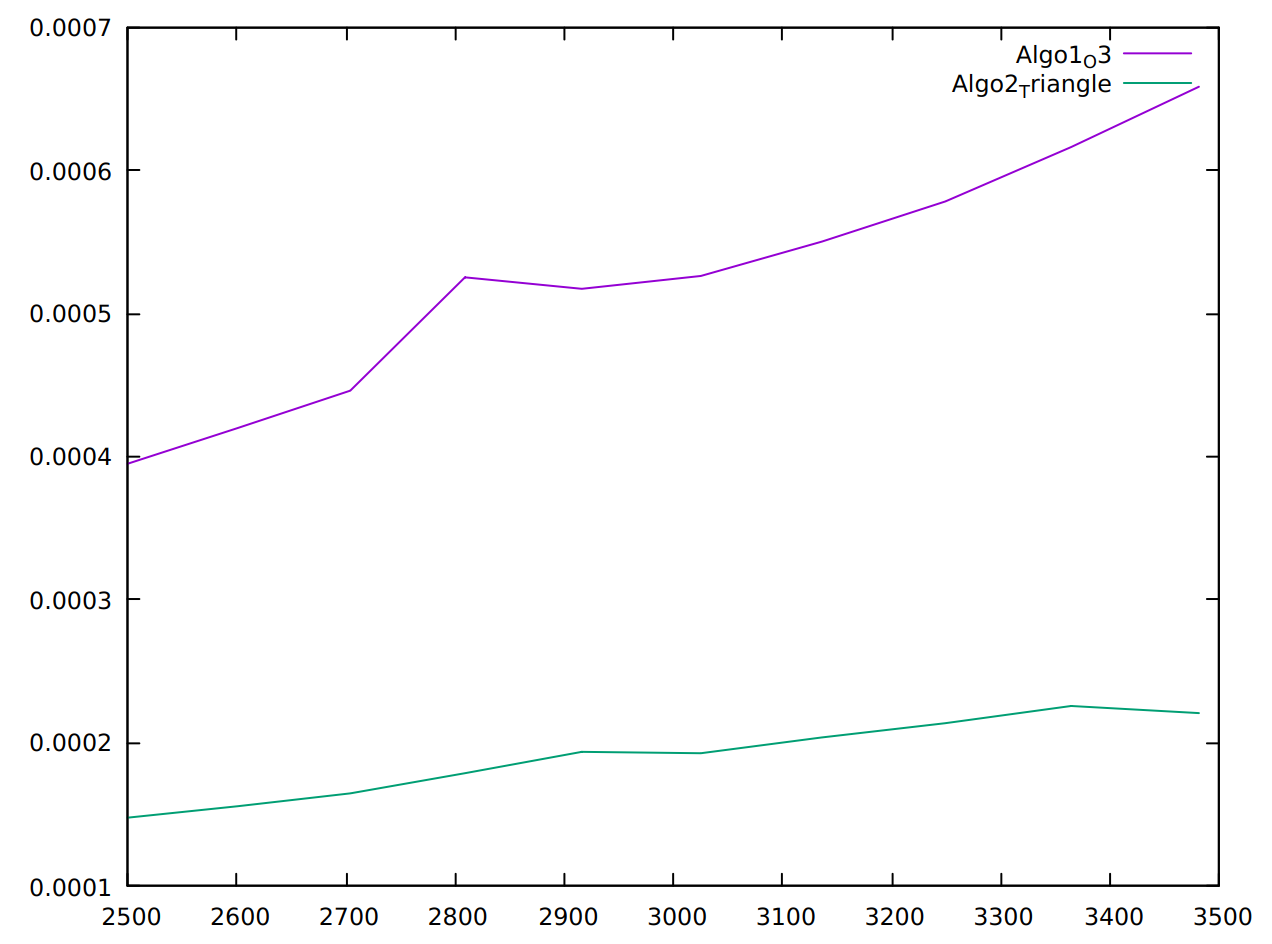
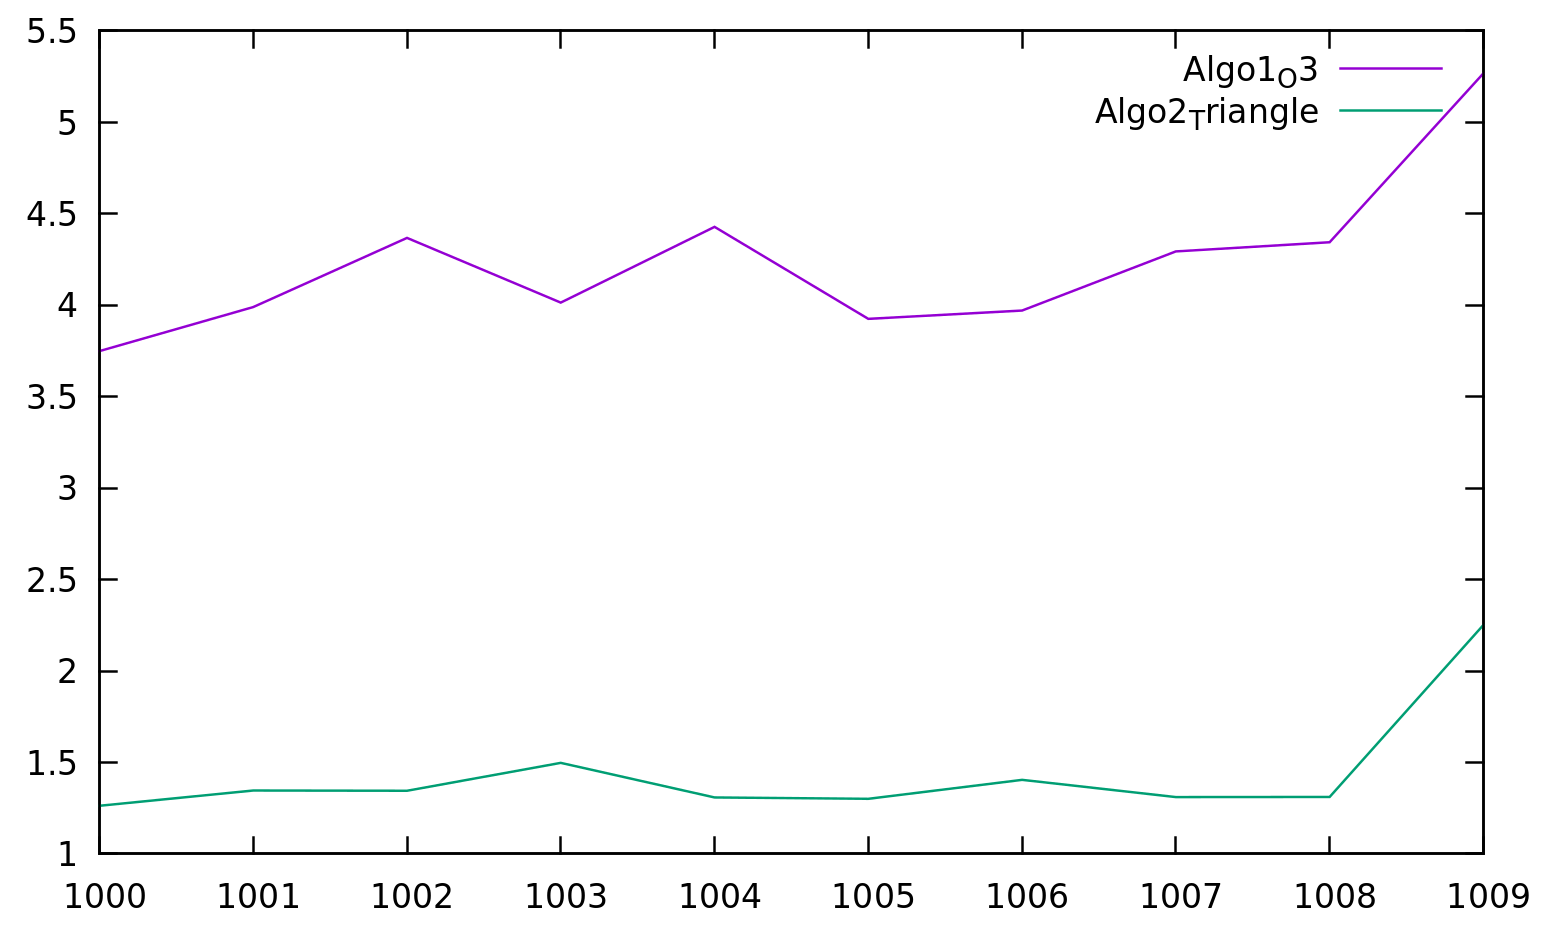
Modif

diff --git a/Exercice_2/algo.c b/Exercice_2/algo.c
@@ -46,7 +46,10 @@ int verfie_matrice_1(int **matrice, int n) {
 }
 
 // permet de vericier si toutes les valeurs d'une matrice sont differentes en O(n²)
-int verfie_matrice_2(int **matrice, int n, int *check, int maxValeur) {
+int verfie_matrice_2(int **matrice, int n, int maxValeur) {
+
+    // On alloue le tableau le tableau de borne
+    int *check = alloue_tableau(maxValeur);
 
     //on utilise un tableau de maxValeur de valeurs comme tableau de booleen (0 si il n'existe pas 1 sinon)
     for(int i = 0; i < maxValeur; i++)
@@ -54,13 +57,17 @@ int verfie_matrice_2(int **matrice, int n, int *check, int maxValeur) {
 
     for(int i = 0; i < n; i++) {
         for(int j = 0; j < n; j++) {
-            if(check[matrice[i][j]] != 0) 
+            if(check[matrice[i][j]] != 0) {
+                // on desaloue le tableau de boolean
+                desalloue_tableau(check);
                 return 0;
-            
+            }
             check[matrice[i][j]] = 1;
         }
     }
 
+    // on desaloue le tableau de boolean
+    desalloue_tableau(check);
     return 1;
 }
 

diff --git a/Exercice_2/mesure_mat_verif.c b/Exercice_2/mesure_mat_verif.c
@@ -9,10 +9,8 @@
 int main() {
 
     int maxValeur = 100;
-    
-    //on alloue le tableau de boolean 
-    int *check = alloue_tableau(maxValeur);
-    int n = 50;
+        
+    int n = 1000;
 
     char *file_name = "sortie_vitesse_mat_verif.txt";
     FILE *file = fopen(file_name, "w");
@@ -39,21 +37,18 @@ int main() {
 
         // on calcule le temps que la fonction de verification O(n) prend
         temps_initial = clock();
-        verfie_matrice_2(mat, n, check, maxValeur);
+        verfie_matrice_2(mat, n, maxValeur);
         temps_final = clock();
         temps_cpu_algo2 = ((double) (temps_final - temps_initial)) / CLOCKS_PER_SEC;
 
         // on ecrit le resultat dans un fichier
-        fprintf(file, "%d %f %f\n", n*n, temps_cpu_algo1, temps_cpu_algo2);
+        fprintf(file, "%d %f %f\n", n, temps_cpu_algo1, temps_cpu_algo2);
 
         // on desaloue la matrice allouer
         desalloue_matrice(mat, n);
         n++;
-        
     }
 
-    // on desaloue le tableau de boolean
-    desalloue_tableau(check);
     fclose(file);
     return 0;
 }

diff --git a/Exercice_2/mesure_mat_prod.c b/Exercice_2/mesure_mat_prod.c
@@ -9,7 +9,7 @@
 int main() {
 
     int maxValeur = 100;
-    int n = 50;
+    int n = 1000;
 
     char *file_name = "sortie_vitesse_mat_prod.txt";
     FILE *file = fopen(file_name, "w");
@@ -58,7 +58,7 @@ int main() {
         temps_cpu_algo2 = ((double) (temps_final - temps_initial)) / CLOCKS_PER_SEC;
         desalloue_matrice(prod, n);
         
-        fprintf(file, "%d %f %f\n", n*n, temps_cpu_algo1, temps_cpu_algo2);
+        fprintf(file, "%d %f %f\n", n, temps_cpu_algo1, temps_cpu_algo2);
 
         // On libere l'espace memoires alloue
         desalloue_matrice_triangulaire(matTriangulaireInf);

diff --git a/Exercice_2/algo.h b/Exercice_2/algo.h
@@ -5,7 +5,7 @@
 int somme_1(int *tableau, int taille);
 int somme_2(int *tableau, int taille);
 int verfie_matrice_1(int **matrice, int n);
-int verfie_matrice_2(int **matrice, int n, int *check, int maxValeur);
+int verfie_matrice_2(int **matrice, int n, int maxValeur);
 int **produit_mat_1(int **mat1, int **mat2, int m);
 int **produit_triang(MatriceTriangulaire *sup, MatriceTriangulaire *inf);
 

diff --git a/Exercice_2/commun.h b/Exercice_2/commun.h
@@ -1,6 +1,7 @@
 #ifndef __COMMUN_H__
 #define __COMMUN_H__
 #include <stdio.h>
+
 #define NUMBER_ITERATION 10
 
 #define print_probleme(msg) fprintf(stderr, "%s dans la fonction %s a la ligne %d\n", msg, __PRETTY_FUNCTION__, __LINE__) 
